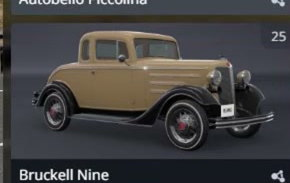
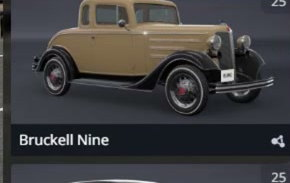
20 clean vehicle cuts, no header bleed

diff --git a/src/AppForm.cs b/src/AppForm.cs
@@ -530,7 +530,7 @@ namespace BeamPrank
                 for (int c = 0; c < 5; c++)
                 {
                     if (idx >= VehSlots) break;
-                    int card = idx % 15;
+                    int card = idx % 20;
                     DrawVehCard(g, idx, VehGrid.X + 16 + c * VehPitchX, y + r * VehPitchY, card);
                     idx++;
                 }
@@ -551,7 +551,7 @@ namespace BeamPrank
 
         void DrawVehCard(Graphics g, int id, float x, float y)
         {
-            DrawVehCard(g, id, x, y, id % 15);
+            DrawVehCard(g, id, x, y, id % 20);
         }
 
         void DrawVehCard(Graphics g, int id, float x, float y, int art)
